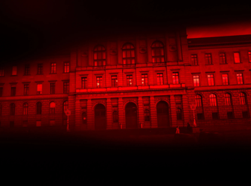
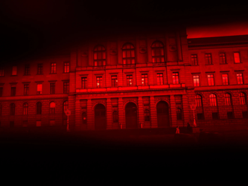
feat(TeaserCarousel/Tile): move bigger byline below image

diff --git a/src/components/Figure/Byline.js b/src/components/Figure/Byline.js
@@ -27,14 +27,14 @@ const positionBaseStyle = {
 }
 
 const positionStyle = {
-  aboveRight: css({
+  belowRight: css({
     position: 'absolute',
     whiteSpace: 'nowrap',
-    top: -15,
+    bottom: -15,
     right: 0,
     display: 'block',
-    [mUpFront]: {
-      ...sansSerifRegular12
+    [mUp]: {
+      ...sansSerifRegular10
     }
   }),
   below: css({
@@ -125,7 +125,7 @@ Byline.propTypes = {
   children: PropTypes.node.isRequired,
   attributes: PropTypes.object,
   position: PropTypes.oneOf([
-    'aboveRight',
+    'belowRight',
     'below',
     'belowFeuilleton',
     'right',

diff --git a/src/components/TeaserCarousel/Tile.js b/src/components/TeaserCarousel/Tile.js
@@ -41,7 +41,7 @@ const styles = {
   }),
   imageContainerBigger: css({
     position: 'relative',
-    margin: '15px auto 20px auto' // room for image credit on top.
+    margin: '0 auto 22px auto' // room for image credit below
   }),
 
   // custom styles for portrait images
@@ -117,7 +117,7 @@ const Tile = ({
             />
             {byline && (
               <FigureByline
-                position={bigger ? 'aboveRight' : 'rightCompact'}
+                position={bigger ? 'belowRight' : 'rightCompact'}
                 style={{ color }}
               >
                 {byline}

diff --git a/src/components/TeaserCarousel/docs.md b/src/components/TeaserCarousel/docs.md
@@ -178,7 +178,7 @@ The media queries are defined in [`FrontTile`](/teaserfronttile).
 
     <TeaserCarouselTile
       bigger
-      image='/static/carousel/eth.png?size=251x186'
+      image='/static/carousel/eth.png?size=248x186'
       count={8}
       bgColor='#000'
       color='#FFF'
